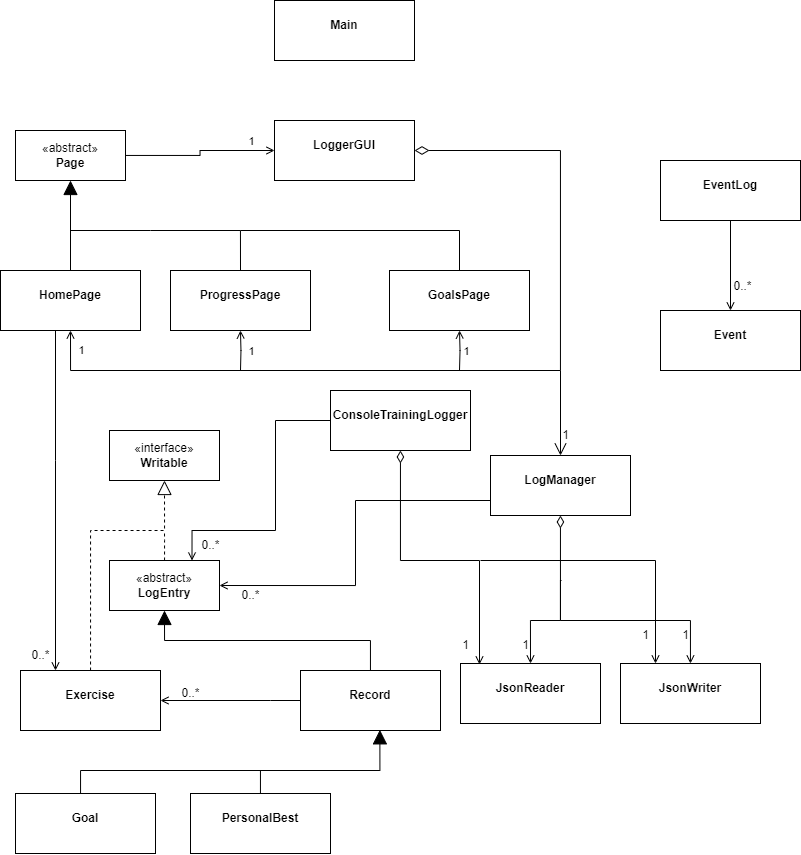
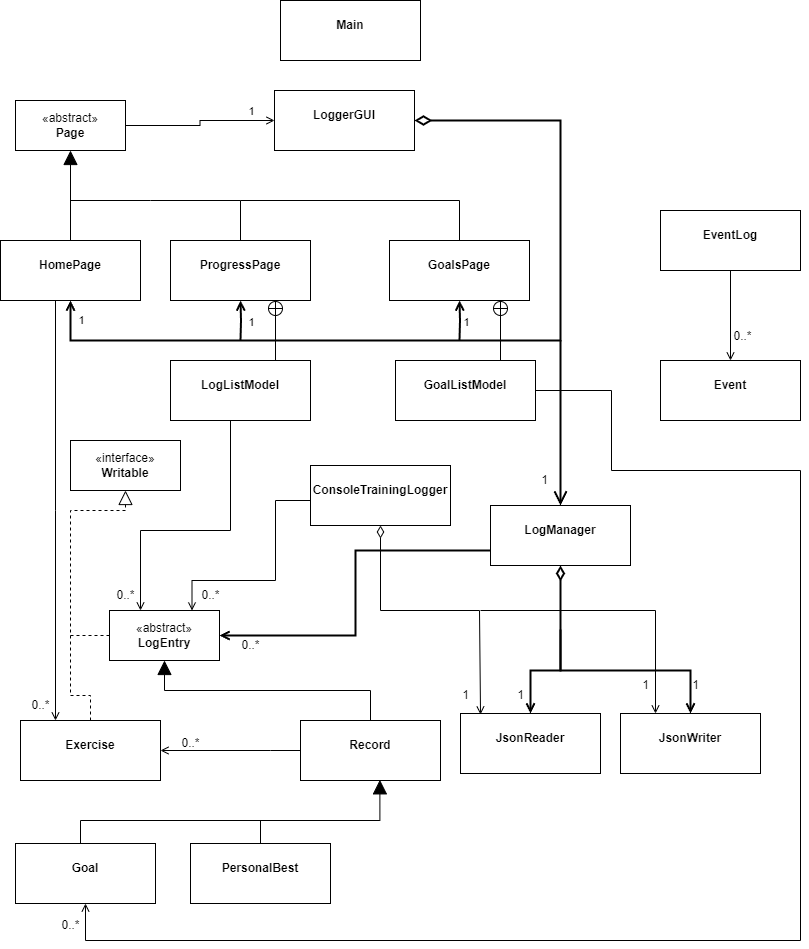
Phase 4: Updated UML diagram

diff --git a/src/main/ui/ProgressPage.java b/src/main/ui/ProgressPage.java
@@ -71,7 +71,7 @@ public class ProgressPage extends Page {
 
     // Represents a list model which displays the name string of all log entries in its logs.
     private static class LogListModel extends AbstractListModel<String> {
-        private java.util.List<LogEntry> logs;
+        private List<LogEntry> logs;
 
         public LogListModel(List<LogEntry> logs) {
             this.logs = logs;
